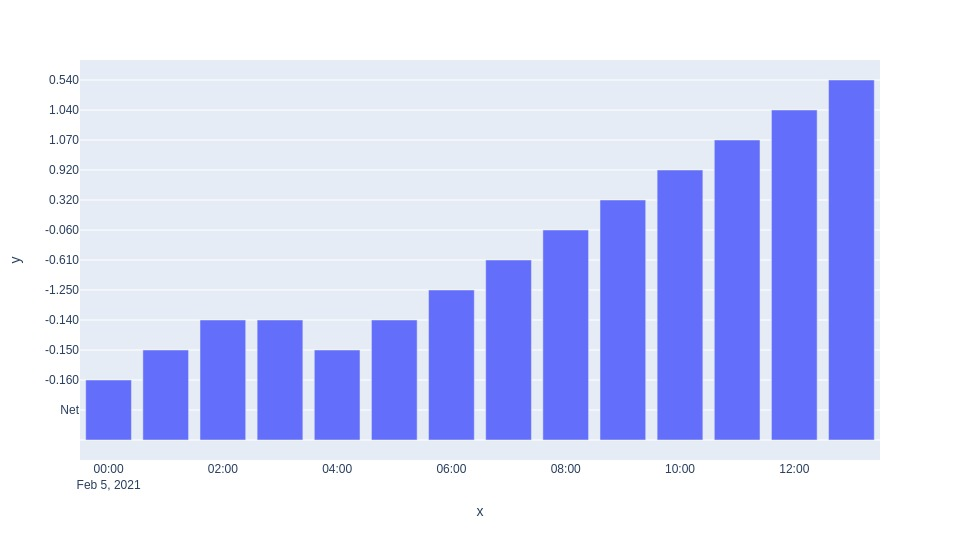
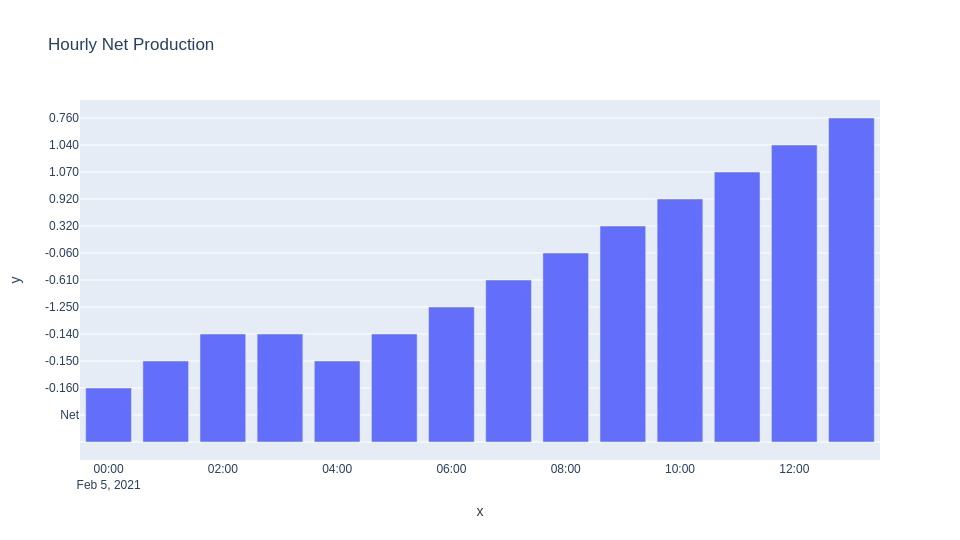
added more bar graph

diff --git a/sunpower.py b/sunpower.py
@@ -82,14 +82,14 @@ if __name__ == '__main__':
    col_c = list(chartdata.perused)
    col_d = list(chartdata.pernet)
 
-   figperprod = px.bar(x=col_a, y=col_b)
+   figperprod = px.bar(x=col_a, y=col_b, title="Hourly Production")
    figperprod.write_image("/home/mbales/sunpower/images/figperprod.jpeg", width=960, height=540)
 
-   figused = px.bar(x=col_a, y=col_c)
-   figused.write_image("/home/mbales/sunpower/images/figperused.jpeg", width=960, height=540)
+   figperused = px.bar(x=col_a, y=col_c, title="Hourly Use")
+   figperused.write_image("/home/mbales/sunpower/images/figperused.jpeg", width=960, height=540)
 
-   fignet = px.bar(x=col_a, y=col_d)
-   fignet.write_image("/home/mbales/sunpower/images/figpernet.jpeg", width=960, height=540)
+   figpernet = px.bar(x=col_a, y=col_d, title="Hourly Net Production")
+   figpernet.write_image("/home/mbales/sunpower/images/figpernet.jpeg", width=960, height=540)
 
    #for row in reversed(list(csv.reader(csvfile, delimiter=","))):
        #print(', '.join(row))
